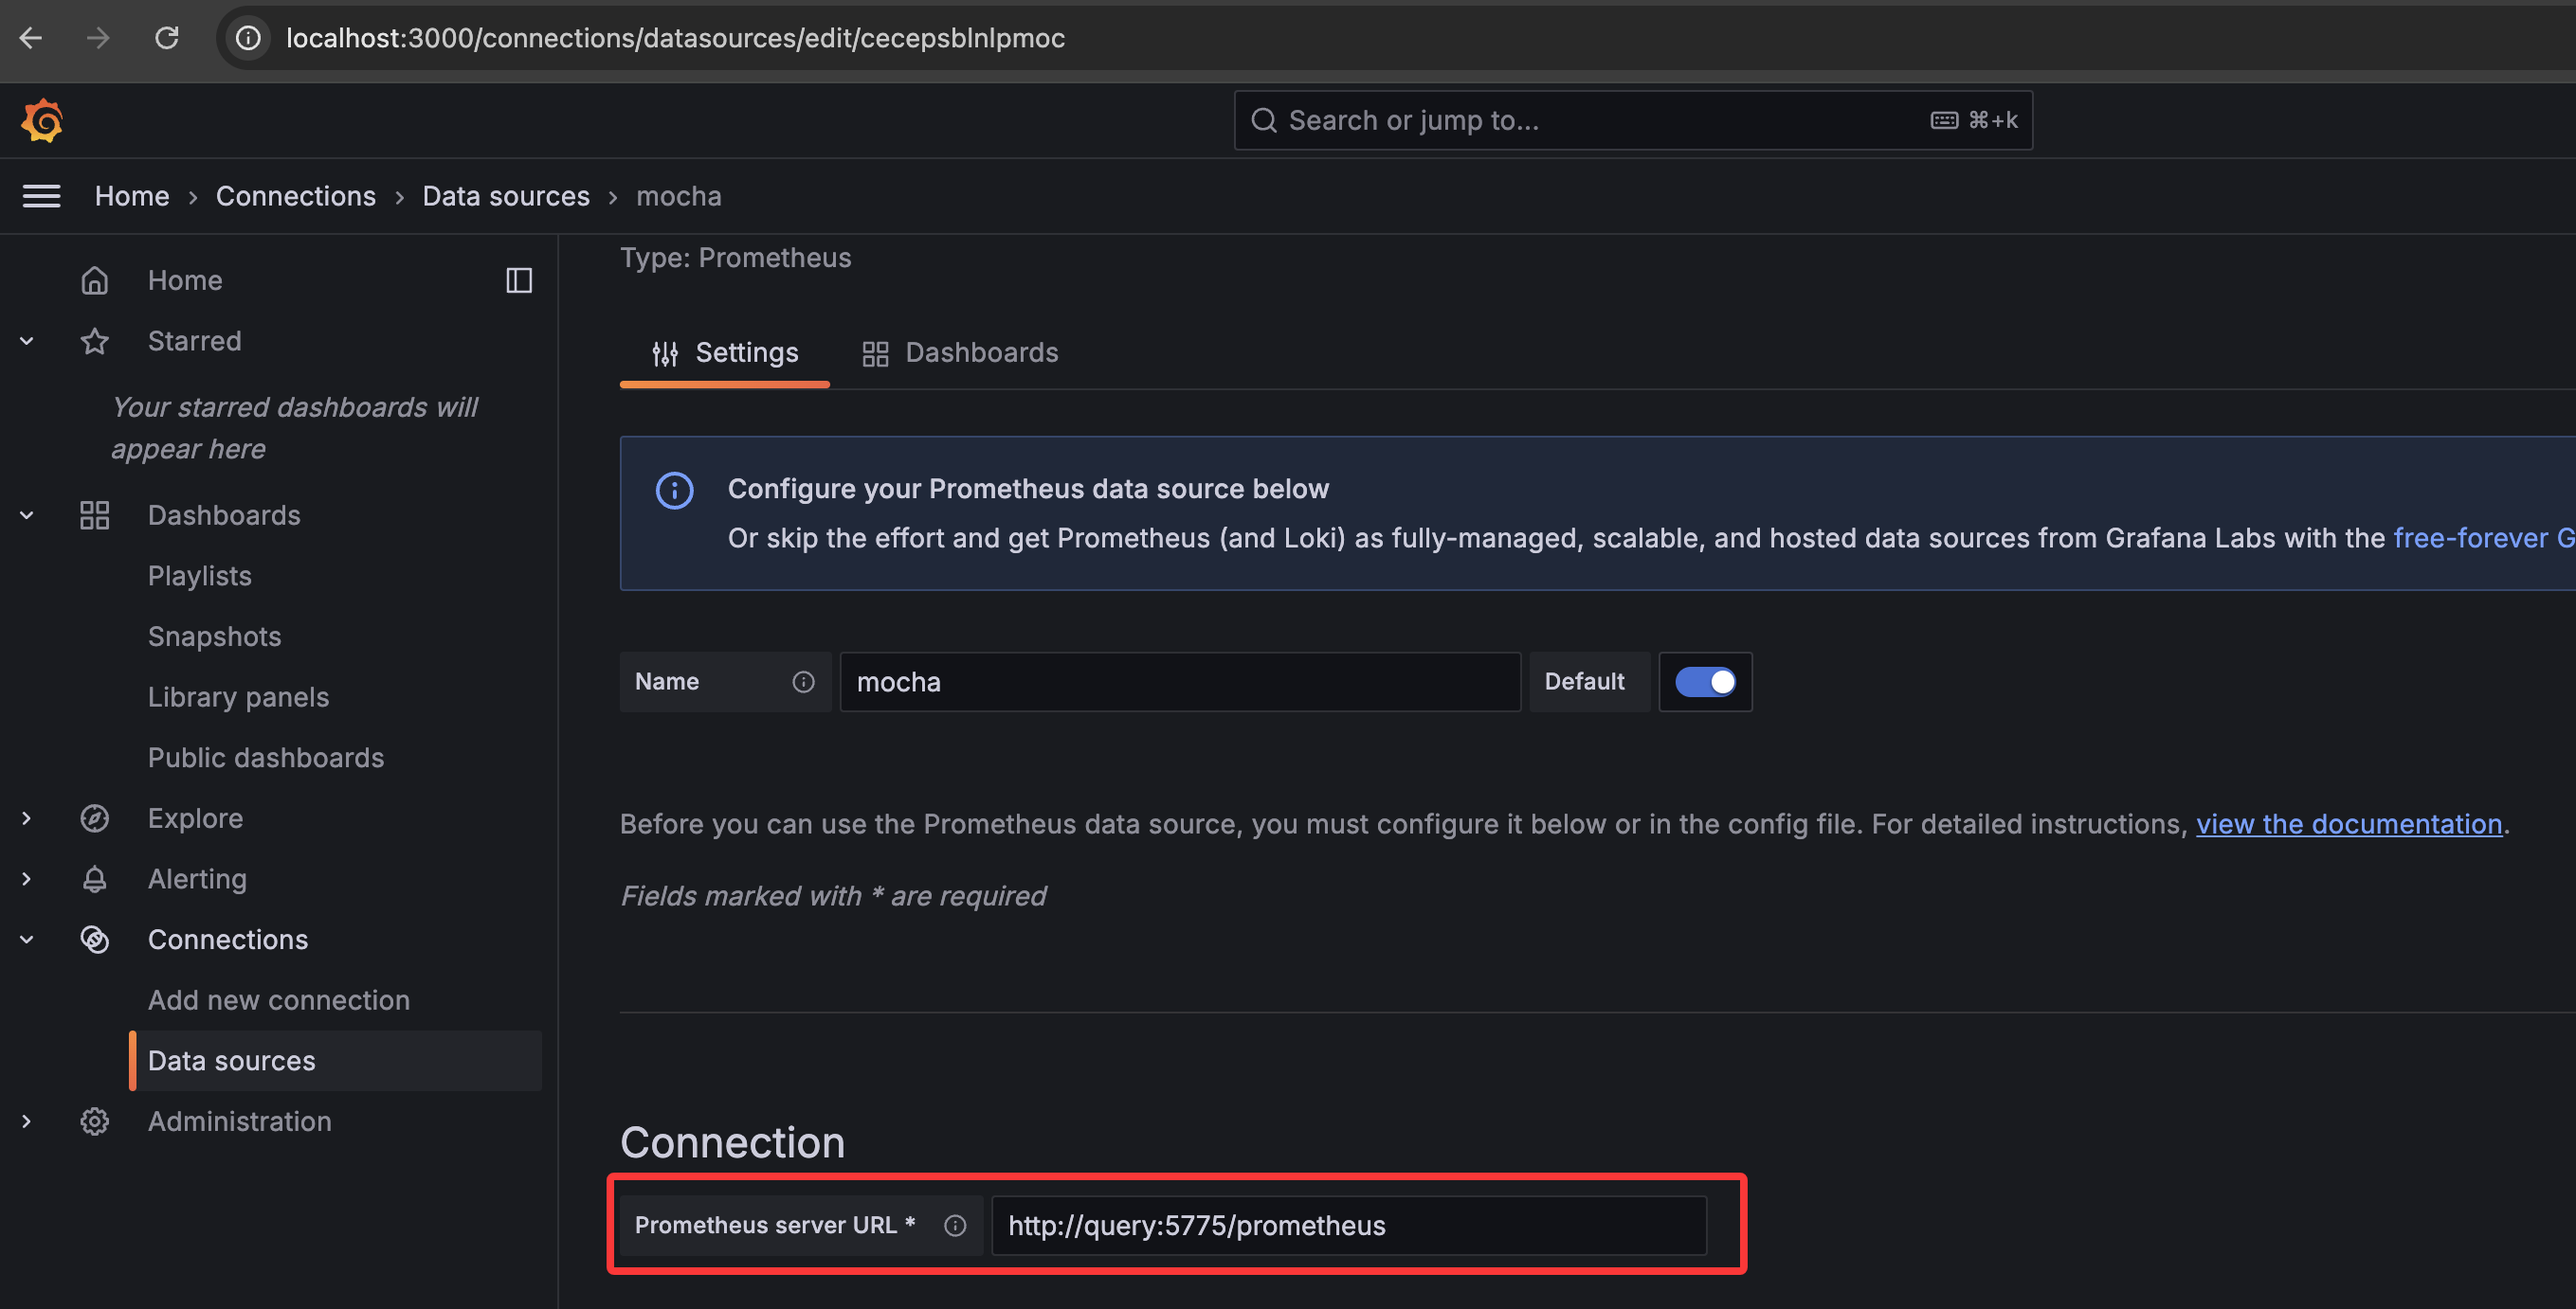
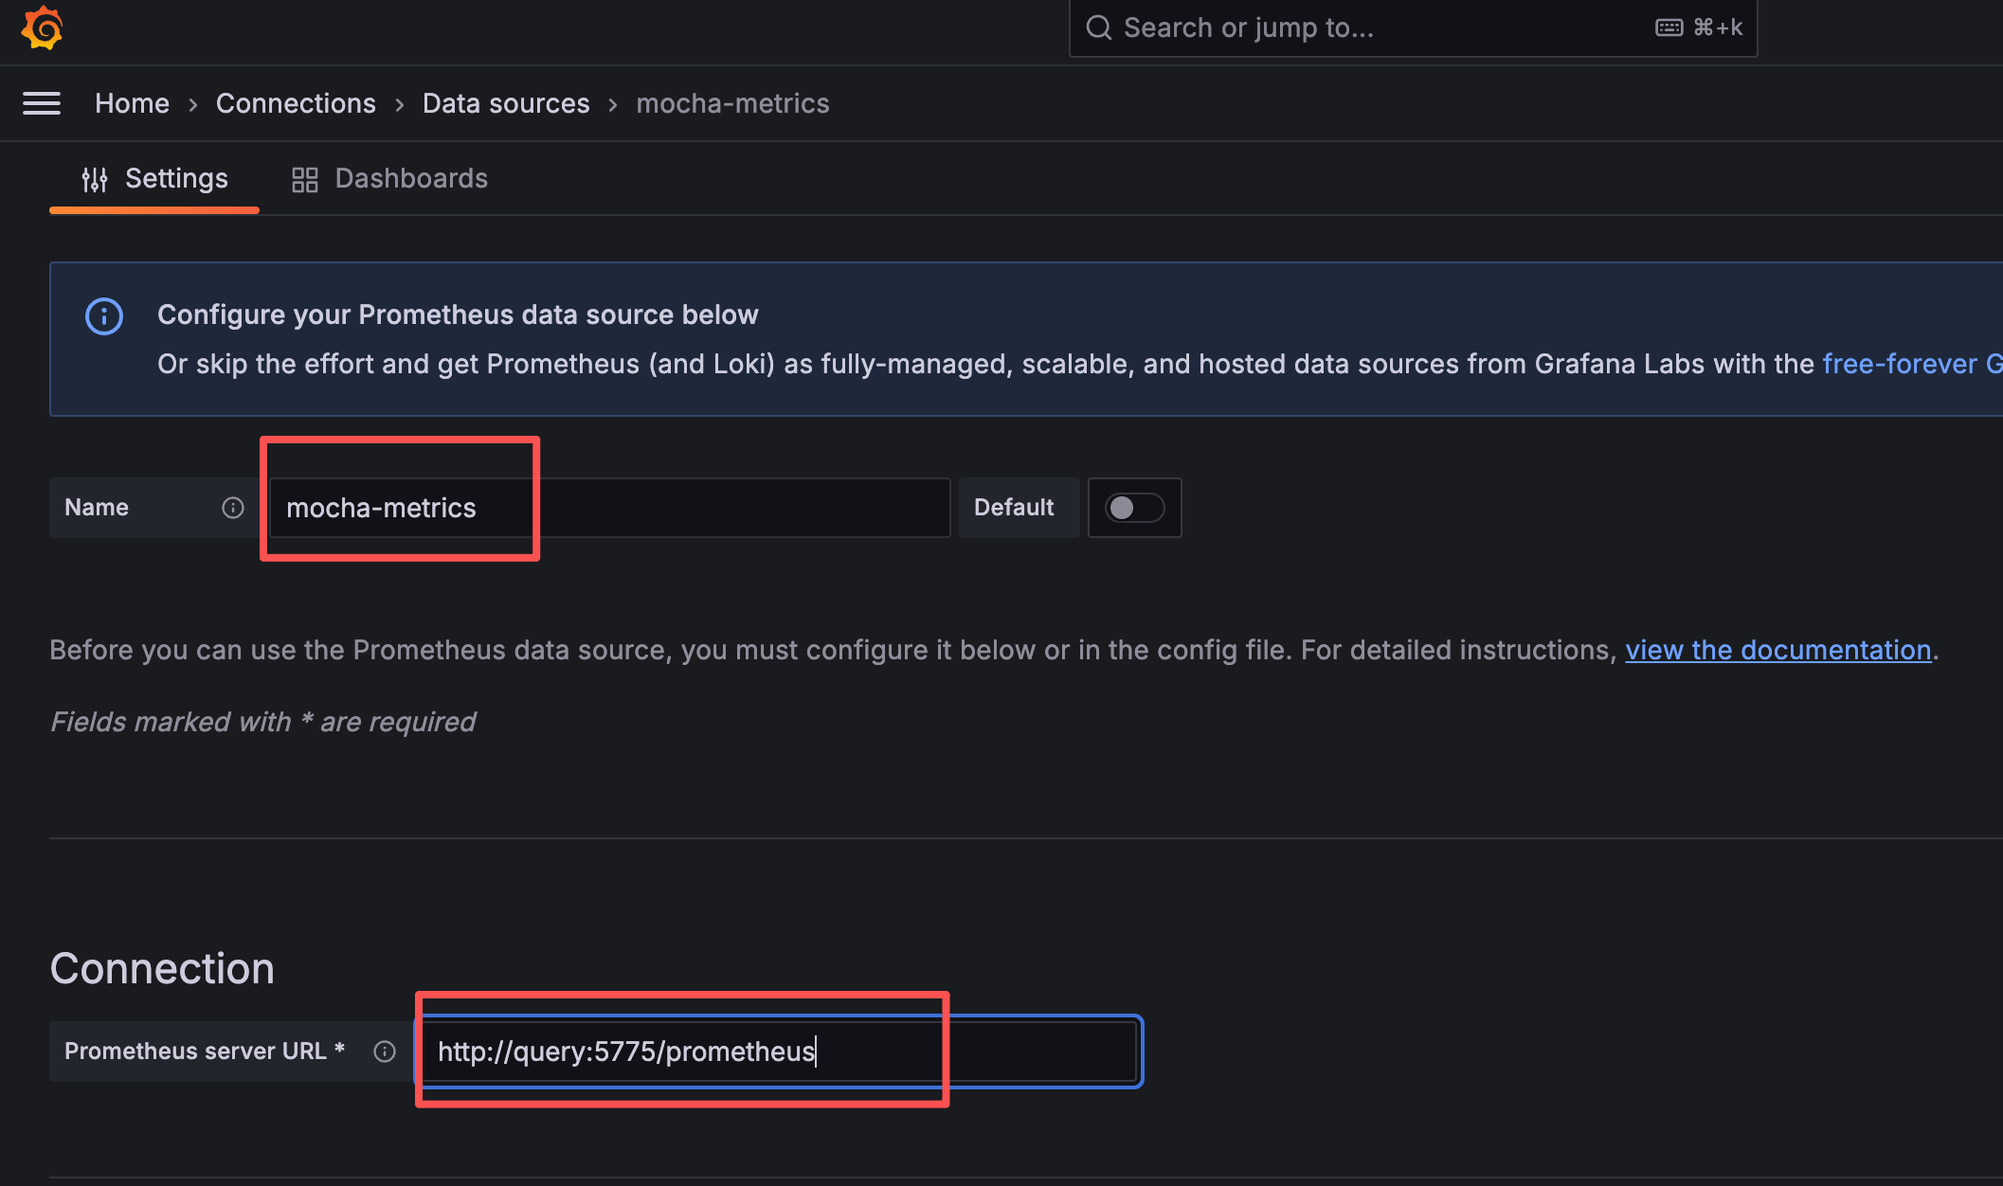
add tests update md

diff --git a/tests/Mocha.Storage.Tests/LiteDB/LiteDBSpanMetadataTests.cs b/tests/Mocha.Storage.Tests/LiteDB/LiteDBSpanMetadataTests.cs
@@ -19,18 +19,60 @@ public class LiteDBSpanMetadataTests : IDisposable
 
     public LiteDBSpanMetadataTests()
     {
+        _tempDatabasePath = TempDatabasePath.Create();
         var services = new ServiceCollection();
         services.AddStorage()
             .WithMetadata(metadataOptions =>
             {
                 metadataOptions.UseLiteDB(liteDbOptions =>
                 {
-                    liteDbOptions.DatabasePath = ":memory:";
+                    liteDbOptions.DatabasePath = _tempDatabasePath.Path;
                 });
             });
         _serviceProvider = services.BuildServiceProvider();
         _reader = _serviceProvider.GetRequiredService<IJaegerSpanMetadataReader>();
         _writer = _serviceProvider.GetRequiredService<ITelemetryDataWriter<MochaSpanMetadata>>();
+    }
+
+    [Fact]
+    public async Task GetServicesAsync()
+    {
+        _writer.WriteAsync(new[]
+        {
+            new MochaSpanMetadata
+            {
+                ServiceName = "ServiceName1",
+                OperationName = "OperationName1"
+            },
+            new MochaSpanMetadata
+            {
+                ServiceName = "ServiceName2",
+                OperationName = "OperationName2"
+            }
+        }).GetAwaiter().GetResult();
+
+        var services = await _reader.GetServicesAsync();
+        Assert.Equal(["ServiceName1", "ServiceName2"], services);
+    }
+
+    [Fact]
+    public async Task GetOperationsAsync()
+    {
+      await  _writer.WriteAsync([
+          new MochaSpanMetadata
+            {
+                ServiceName = "ServiceName1",
+                OperationName = "OperationName1"
+            },
+            new MochaSpanMetadata
+            {
+                ServiceName = "ServiceName1",
+                OperationName = "OperationName2"
+            }
+      ]);
+
+        var operations = await _reader.GetOperationsAsync("ServiceName1");
+        Assert.Equal(["OperationName1", "OperationName2"], operations);
     }
 
     public void Dispose()

diff --git a/tests/Mocha.Storage.Tests/LiteDB/LiteDBMetricsMetadataTests.cs b/tests/Mocha.Storage.Tests/LiteDB/LiteDBMetricsMetadataTests.cs
@@ -2,33 +2,34 @@
 // The .NET Core Community licenses this file to you under the MIT license.
 
 using FluentAssertions;
-using Microsoft.EntityFrameworkCore;
 using Microsoft.Extensions.DependencyInjection;
 using Mocha.Core.Models.Metadata;
 using Mocha.Core.Models.Metrics;
 using Mocha.Core.Storage;
 using Mocha.Core.Storage.Prometheus;
 using Mocha.Core.Storage.Prometheus.Metrics;
-using Mocha.Storage.EntityFrameworkCore.Metadata;
 using Mocha.Storage.EntityFrameworkCore.Metadata.Readers;
+using Mocha.Storage.LiteDB.Metadata;
 
-namespace Mocha.Storage.Tests.EntityFrameworkCore;
+namespace Mocha.Storage.Tests.LiteDB;
 
-public class EFPrometheusMetricsMetadataTests : IDisposable
+public class LiteDBMetricsMetadataTests : IDisposable
 {
+    private TempDatabasePath _tempDatabasePath;
     private readonly ServiceProvider _serviceProvider;
     private readonly ITelemetryDataWriter<MochaMetricMetadata> _writer;
     private readonly IPrometheusMetricsMetadataReader _reader;
 
-    public EFPrometheusMetricsMetadataTests()
+    public LiteDBMetricsMetadataTests()
     {
+        _tempDatabasePath = TempDatabasePath.Create();
         var services = new ServiceCollection();
         services.AddStorage()
             .WithMetadata(metadataOptions =>
             {
-                metadataOptions.UseEntityFrameworkCore(efOptions =>
+                metadataOptions.UseLiteDB(liteDbOptions =>
                 {
-                    efOptions.UseInMemoryDatabase(Guid.NewGuid().ToString());
+                    liteDbOptions.DatabasePath = _tempDatabasePath.Path;
                 });
             });
 
@@ -94,5 +95,6 @@ public class EFPrometheusMetricsMetadataTests : IDisposable
     public void Dispose()
     {
         _serviceProvider.Dispose();
+        _tempDatabasePath.Dispose();
     }
 }

diff --git a/docs/quick-start/docker-compose/quick-start.en-US.md b/docs/quick-start/docker-compose/quick-start.en-US.md
@@ -6,13 +6,22 @@ Execute the following command in the docker directory under the project root dir
 docker-compose up --build -d
 ```
 
+This version of storage is LiteDB, which is an embedded database, so there is no need to start additional database containers.
+
 After the startup is successful, you can see the following containers:
 
 + mocha-distributor: Provides gRPC API for receiving OTLP data
 + mocha-query: Provides HTTP API for receiving query protocol
++ mocha-grafana: Used to display data
+
+We have also implemented versions that store Tracing to MySQL and Metrics to InfluxDB.
+
+You can execute `docker-compose -f docker-compose-mysql-influxdb.yml up --build -d` to start the version that uses MySQL and InfluxDB.
+
+After the startup is successful, in addition to the above containers, you can also see the following containers:
+
 + mocha-mysql: Used to store data
 + mocha-influxdb: Used to store data
-+ mocha-grafana: Used to display data
 
 ## Send Data
 
@@ -40,6 +49,8 @@ Select Jaeger.
 
 Configure the URL of the Jaeger data source as `http://query:5775/jaeger`.
 
+The name of the data source can be customized. In this example, we use mocha-tracing.
+
 ![](./assets/add-jaeger-data-source-4.png)
 
 Click Save & Test. If the following information is displayed, the configuration is successful.
@@ -52,7 +63,7 @@ If no data has been sent to the distributor yet, the following warning message w
 
 #### Query Trace Data
 
-Click the menu on the left, select Explore, and then select the Jaeger data source to see the Trace data.
+Click the menu on the left, select Explore, and then select the mocha-tracing data source to see the Trace data.
 
 ![](./assets/query-trace.png)
 
@@ -73,6 +84,8 @@ Select Prometheus.
 ![](./assets/add-prometheus-data-source.png)
 
 Configure the URL of the Prometheus data source as `http://query:5775/prometheus`.
+
+The name of the data source can be customized. In this example, we use mocha-metrics.
 
 ![](./assets/add-prometheus-data-source-2.png)
 
@@ -96,7 +109,7 @@ Click the menu on the left, select Dashboards, and then create a new dashboard.
 
 ![](./assets/create-metrics-dashboard-2.png)
 
-Select the Prometheus data source that we just created.
+Select the mocha-metrics data source that we just created.
 
 ![](./assets/create-metrics-dashboard-3.png)
 

diff --git a/docs/quick-start/docker-compose/quick-start.zh-CN.md b/docs/quick-start/docker-compose/quick-start.zh-CN.md
@@ -5,14 +5,22 @@
 ```bash
 docker-compose up --build -d
 ```
+此版本的存储实现为 LiteDB，属于嵌入式数据库，因此不需要额外启动数据库容器。
 
 启动成功后，可以看到以下容器：
 
 + mocha-distributor: 提供用于接收 OTLP 数据的 gRPC API
 + mocha-query: 提供用于接收查询协议的 HTTP API
++ mocha-grafana: 用于展示数据
+
+我们目前也实现了 Tracing 存储到 MySQL 和 Metrics 存储到 InfluxDB 的版本。
+
+可以执行 `docker-compose -f docker-compose-mysql-influxdb.yml up --build -d` 来启动使用 MySQL 和 InfluxDB 的版本。
+
+启动成功后，可以看到以除了上述容器外，还有以下容器：
+
 + mocha-mysql: 用于存储数据
 + mocha-influxdb: 用于存储数据
-+ mocha-grafana: 用于展示数据
 
 ## 数据的发送
 
@@ -38,7 +46,9 @@ docker-compose up --build -d
 
 ![](./assets/add-jaeger-data-source-3.png)
 
-配置 Jaeger 数据源的 URL 为 `http://query:5775/jaeger`。
+配置 Jaeger 数据源的 URL 为 `http://query:5775/jaeger` 。
+
+数据源的名称可以自定义，示例中使用的是 mocha-tracing。
 
 ![](./assets/add-jaeger-data-source-4.png)
 
@@ -52,7 +62,7 @@ docker-compose up --build -d
 
 #### Trace 数据的查询
 
-点击左侧的菜单，选择 Explore，然后选择 Jaeger 数据源，即可看到 Trace 数据。
+点击左侧的菜单，选择 Explore，然后选择 mocha-tracing 数据源，即可看到 Trace 数据。
 
 ![](./assets/query-trace.png)
 
@@ -72,7 +82,9 @@ docker-compose up --build -d
 
 ![](./assets/add-prometheus-data-source.png)
 
-配置 Prometheus 数据源的 URL 为 `http://query:5775/prometheus`。
+配置 Prometheus 数据源的 URL 为 `http://query:5775/prometheus` 。
+
+数据源的名称可以自定义，示例中使用的是 mocha-metrics。
 
 ![](./assets/add-prometheus-data-source-2.png)
 
@@ -86,7 +98,7 @@ docker-compose up --build -d
 
 #### Metrics 数据的查询
 
-点击左侧的菜单，选择 Explore，然后选择 Prometheus 数据源，即可看到 Metrics 数据。
+点击左侧的菜单，选择 Explore，然后选择 mocha-metrics 数据源，即可看到 Metrics 数据。
 
 ![](./assets/query-metrics.png)
 
